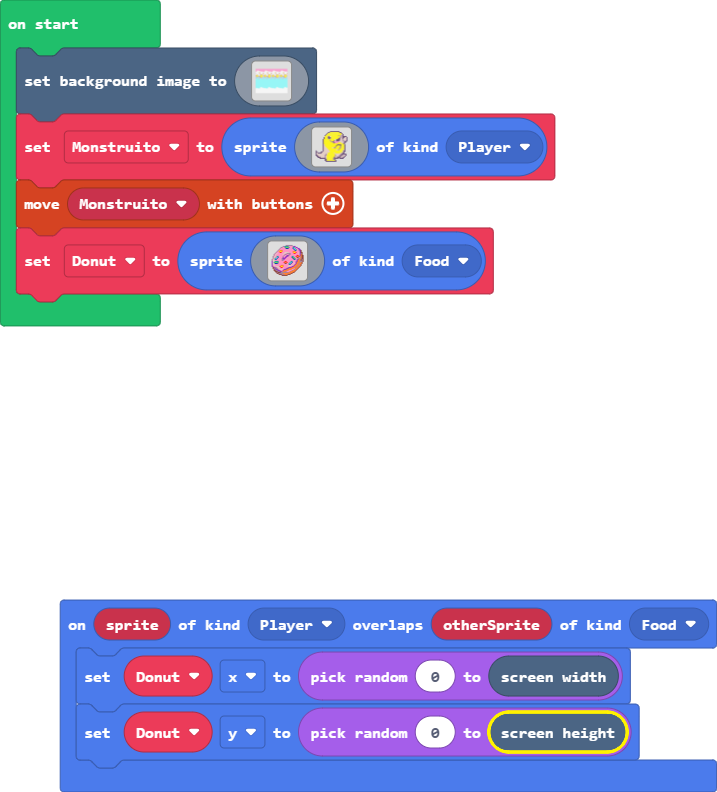
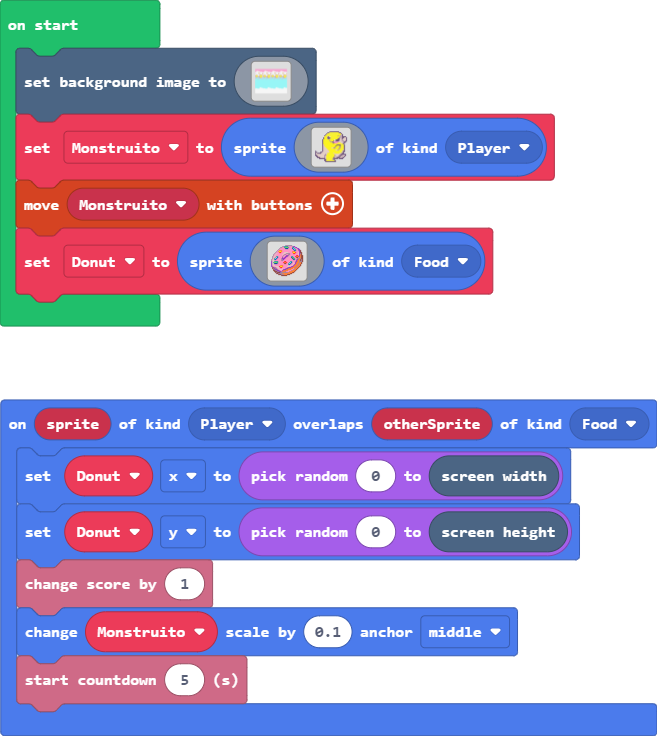
Update main.blocks, main.ts

diff --git a/main.ts b/main.ts
@@ -1,8 +1,12 @@
 sprites.onOverlap(SpriteKind.Player, SpriteKind.Food, function (sprite, otherSprite) {
     Donut.x = randint(0, scene.screenWidth())
     Donut.y = randint(0, scene.screenHeight())
+    info.changeScoreBy(1)
+    Monstruito.changeScale(0.1, ScaleAnchor.Middle)
+    info.startCountdown(5)
 })
 let Donut: Sprite = null
+let Monstruito: Sprite = null
 scene.setBackgroundImage(img`
     3333333333333333333333333333333333333333333333333333333333333333333333333333333333333333333333333333333333333333333333333333333333333333333333333333333333333333
     3333333333333333333333333333333333333333333333333333333333333333333333333333333333333333333333333333333333333333333333333333333333333333333333333333333333333333
@@ -125,7 +129,7 @@ scene.setBackgroundImage(img`
     1111111111111111111111111111111111111111111111111111111111111111111111111111111111111111111111111111111111111111111111111111111111111111111111111111111111111111
     1111111111111111111111111111111111111111111111111111111111111111111111111111111111111111111111111111111111111111111111111111111111111111111111111111111111111111
     `)
-let Monstruito = sprites.create(img`
+Monstruito = sprites.create(img`
     ..............ccccccccc........
     ............cc555555555cc......
     ...........c5555555555555c.....
